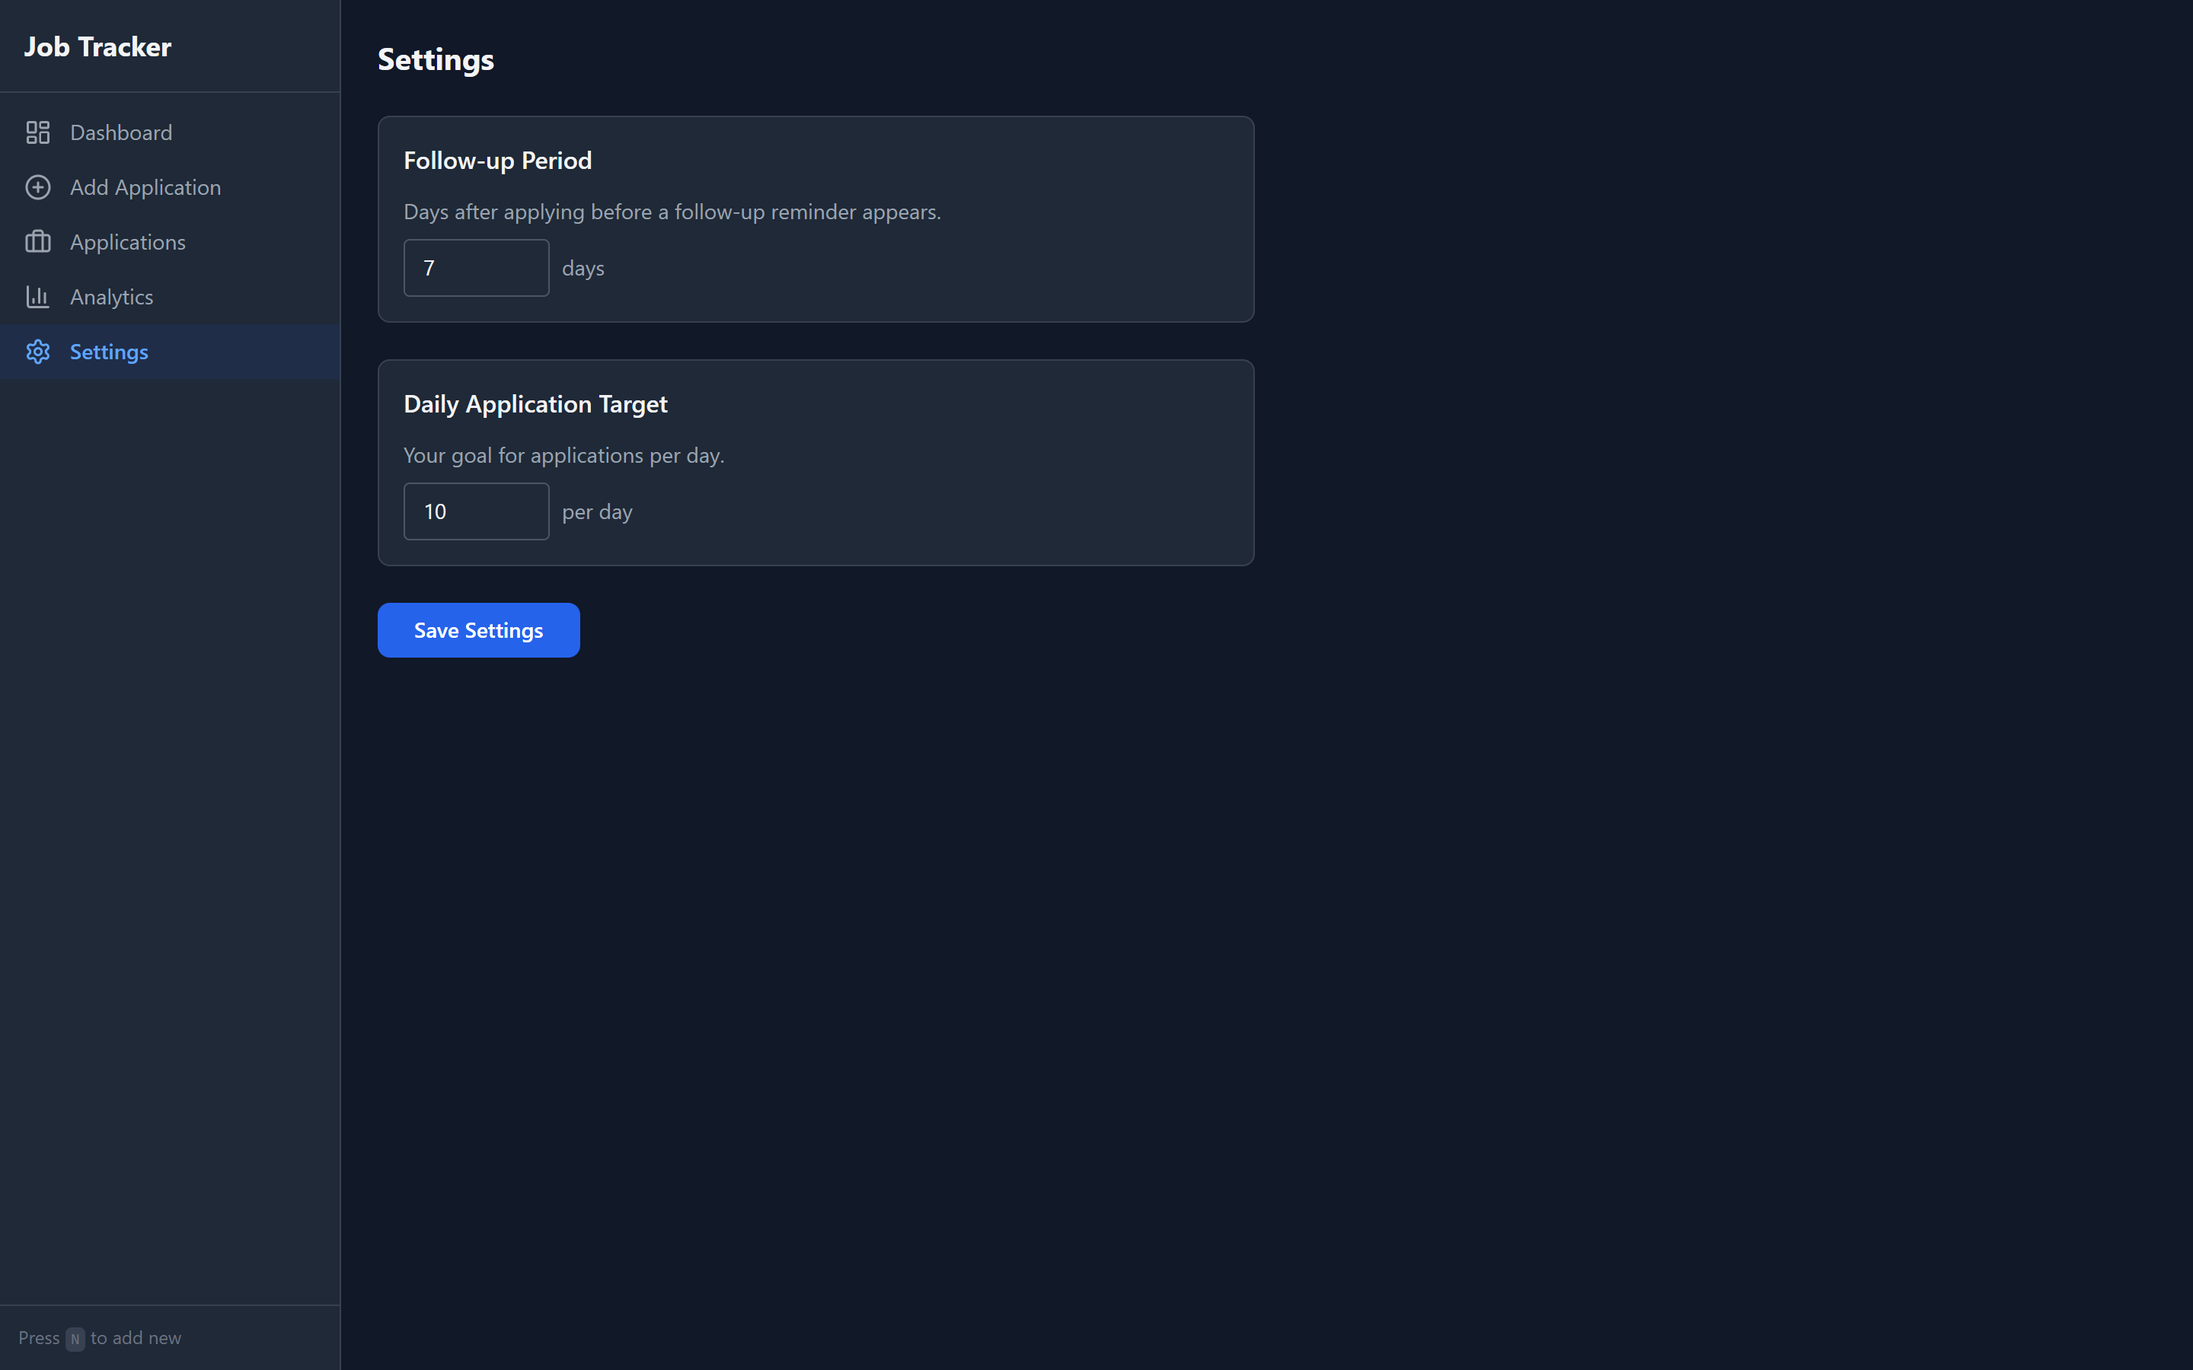
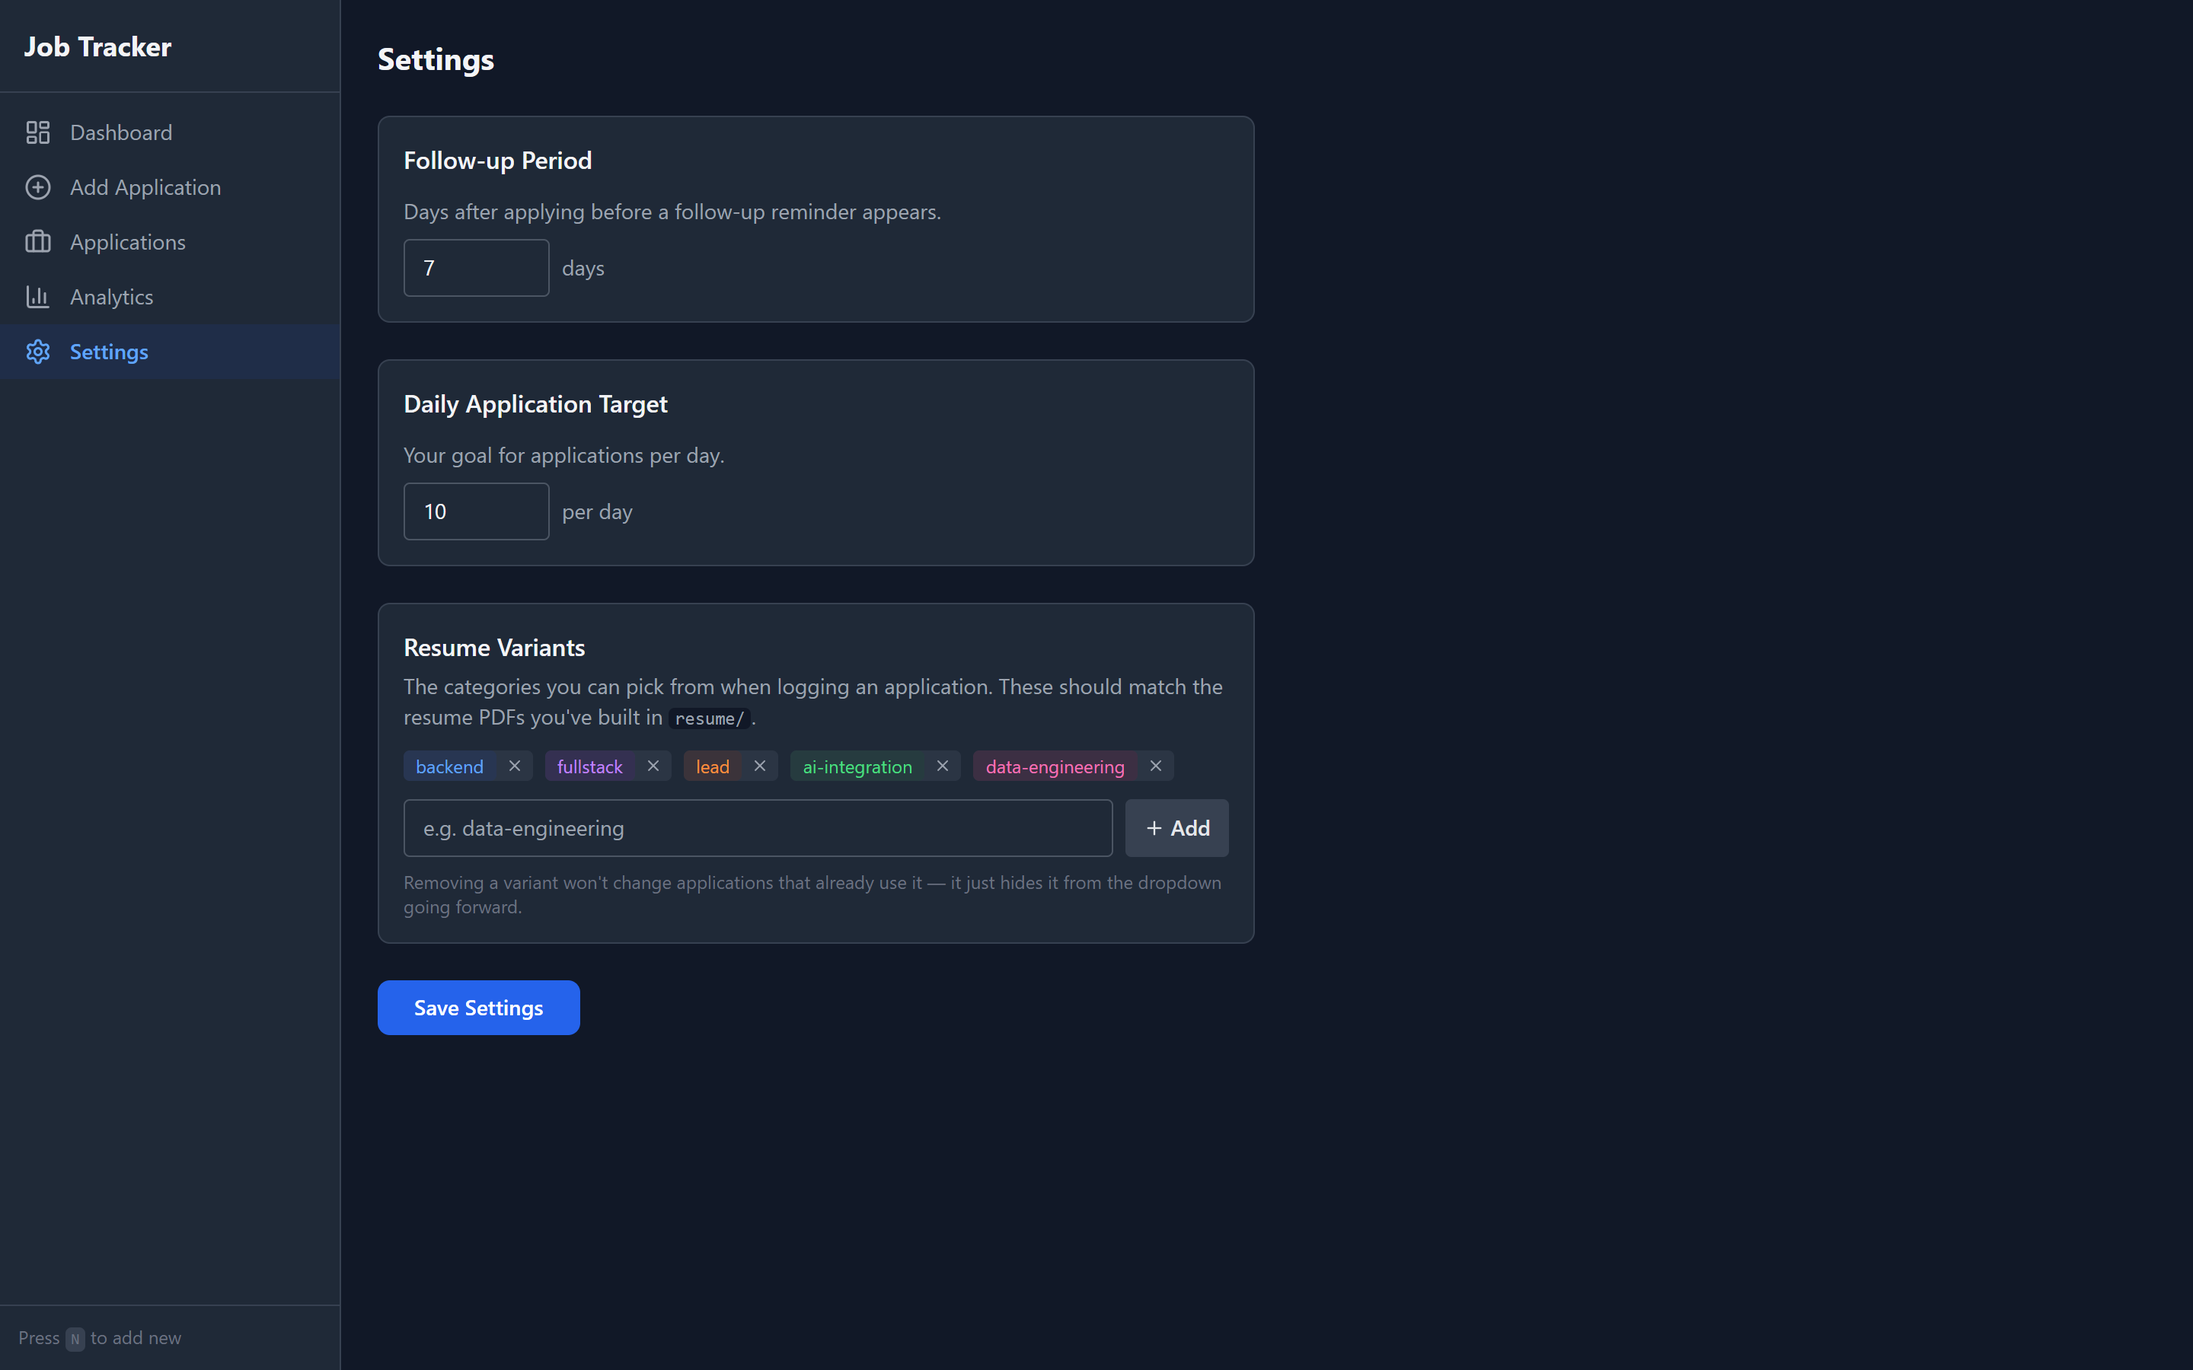
feat(resumes): make resume variants user-configurable in Settings
The set of resumes was hard-coded as a five-value enum
(backend / fullstack / lead / ai-integration / custom) baked into the
shared zod schema, the dropdown options on AddApplication and
ApplicationDetail, and the ResumeBadge color map. Adding or renaming a
category meant editing source. That's the wrong place: the resume set
is per-user config, not application schema.

The list now lives in the existing settings KV table under key
resume_variants as a JSON-encoded string[], with the four shipped
variants used as the default seed when the user hasn't customized
anything yet. The Settings page gets a new section to add/remove
variants, the Add and Detail dropdowns derive their options from
settings, and ResumeBadge falls back to a deterministic hash-based
palette color for any name not in the reserved color map.

Schema-side, resumeUsed is relaxed from z.enum(...) to z.string().min(1)
on both create and update so the API accepts any user-defined value.
The DB column was already plain text — no migration needed. Removing a
variant from settings doesn't touch existing applications that use it;
in edit mode the dropdown still shows the old value labeled (removed)
so users don't lose data by accident.

Changed region(s): [[0.1562, 0.4356, 0.5625, 0.6844], [0.1562, 0.7156, 0.2812, 0.7778]]

diff --git a/app/packages/client/src/pages/Settings.tsx b/app/packages/client/src/pages/Settings.tsx
@@ -2,6 +2,9 @@ import { useState, useEffect } from "react";
 import { useQuery, useMutation, useQueryClient } from "@tanstack/react-query";
 import { apiFetch, apiPatch } from "../api/client.ts";
 import { toast } from "sonner";
+import { Plus, X } from "lucide-react";
+import { parseResumeVariants, serializeResumeVariants } from "../lib/resume-variants.ts";
+import { ResumeBadge } from "../components/ui/ResumeBadge.tsx";
 
 export function SettingsPage() {
   const queryClient = useQueryClient();
@@ -13,10 +16,13 @@ export function SettingsPage() {
 
   const [followUpDays, setFollowUpDays] = useState("7");
   const [dailyTarget, setDailyTarget] = useState("10");
+  const [resumeVariants, setResumeVariants] = useState<string[]>([]);
+  const [newVariant, setNewVariant] = useState("");
 
   useEffect(() => {
     if (settings.follow_up_days) setFollowUpDays(settings.follow_up_days);
     if (settings.daily_application_target) setDailyTarget(settings.daily_application_target);
+    setResumeVariants(parseResumeVariants(settings));
   }, [settings]);
 
   const saveMutation = useMutation({
@@ -34,7 +40,23 @@ export function SettingsPage() {
     saveMutation.mutate({
       follow_up_days: followUpDays,
       daily_application_target: dailyTarget,
+      resume_variants: serializeResumeVariants(resumeVariants),
     });
+  };
+
+  const addVariant = () => {
+    const v = newVariant.trim().toLowerCase().replace(/\s+/g, "-");
+    if (!v) return;
+    if (resumeVariants.includes(v)) {
+      toast.error(`"${v}" already exists`);
+      return;
+    }
+    setResumeVariants([...resumeVariants, v]);
+    setNewVariant("");
+  };
+
+  const removeVariant = (v: string) => {
+    setResumeVariants(resumeVariants.filter((x) => x !== v));
   };
 
   return (
@@ -64,6 +86,61 @@ export function SettingsPage() {
             className="w-24 border border-gray-300 dark:border-gray-600 rounded px-3 py-2 text-sm bg-white dark:bg-gray-800 dark:text-gray-100"
           />
           <span className="text-sm text-gray-500 dark:text-gray-400 ml-2">per day</span>
+        </div>
+
+        <div className="bg-white dark:bg-gray-800 rounded-lg border border-gray-200 dark:border-gray-700 p-4">
+          <h3 className="font-medium mb-1">Resume Variants</h3>
+          <p className="text-sm text-gray-500 dark:text-gray-400 mb-3">
+            The categories you can pick from when logging an application. These
+            should match the resume PDFs you've built in <code className="text-xs bg-gray-100 dark:bg-gray-900 px-1 rounded">resume/</code>.
+          </p>
+
+          {resumeVariants.length === 0 ? (
+            <p className="text-sm text-gray-400 dark:text-gray-500 italic mb-3">No resume variants yet. Add one below.</p>
+          ) : (
+            <div className="flex flex-wrap gap-2 mb-3">
+              {resumeVariants.map((v) => (
+                <div
+                  key={v}
+                  className="inline-flex items-center gap-1 bg-gray-100 dark:bg-gray-700/50 rounded pr-1"
+                >
+                  <ResumeBadge resume={v} />
+                  <button
+                    onClick={() => removeVariant(v)}
+                    className="text-gray-400 hover:text-red-500 dark:hover:text-red-400 p-0.5"
+                    aria-label={`Remove ${v}`}
+                  >
+                    <X size={12} />
+                  </button>
+                </div>
+              ))}
+            </div>
+          )}
+
+          <div className="flex gap-2">
+            <input
+              type="text"
+              value={newVariant}
+              onChange={(e) => setNewVariant(e.target.value)}
+              onKeyDown={(e) => {
+                if (e.key === "Enter") {
+                  e.preventDefault();
+                  addVariant();
+                }
+              }}
+              placeholder="e.g. data-engineering"
+              className="flex-1 border border-gray-300 dark:border-gray-600 rounded px-3 py-2 text-sm bg-white dark:bg-gray-800 dark:text-gray-100"
+            />
+            <button
+              onClick={addVariant}
+              className="px-3 py-2 bg-gray-100 dark:bg-gray-700 text-gray-700 dark:text-gray-200 rounded text-sm font-medium hover:bg-gray-200 dark:hover:bg-gray-600 inline-flex items-center gap-1"
+            >
+              <Plus size={14} /> Add
+            </button>
+          </div>
+          <p className="text-xs text-gray-400 dark:text-gray-500 mt-2">
+            Removing a variant won't change applications that already use it — it just hides it from the dropdown going forward.
+          </p>
         </div>
 
         <button

diff --git a/app/packages/client/src/pages/ApplicationDetail.tsx b/app/packages/client/src/pages/ApplicationDetail.tsx
@@ -10,18 +10,15 @@ import { StatusBadge } from "../components/ui/StatusBadge.tsx";
 import { ResumeBadge } from "../components/ui/ResumeBadge.tsx";
 import { CompanyLogo } from "../components/ui/CompanyLogo.tsx";
 import { SkeletonCard } from "../components/ui/Skeleton.tsx";
-import { JOB_STATUSES, RESUME_VARIANTS, FOUND_VIA_SOURCES, SOURCE_LABELS, SALARY_CURRENCIES } from "@jobsearch/shared";
+import { JOB_STATUSES, FOUND_VIA_SOURCES, SOURCE_LABELS, SALARY_CURRENCIES } from "@jobsearch/shared";
+import { apiFetch } from "../api/client.ts";
+import { parseResumeVariants, formatResumeLabel } from "../lib/resume-variants.ts";
 
 const TRANSITIONS: Record<string, string[]> = Object.fromEntries(
   JOB_STATUSES.map((s) => [s, JOB_STATUSES.filter((t) => t !== s)]),
 );
 
 const TABS = ["Overview", "Notes", "Salary / Offer"];
-
-const RESUME_OPTIONS = [
-  { value: "", label: "None" },
-  ...RESUME_VARIANTS.map((v) => ({ value: v, label: v.charAt(0).toUpperCase() + v.slice(1).replace("-", " ") })),
-];
 
 const SOURCE_OPTIONS = [
   { value: "", label: "None" },
@@ -33,6 +30,16 @@ export function ApplicationDetail() {
   const navigate = useNavigate();
   const queryClient = useQueryClient();
   const [activeTab, setActiveTab] = useState("Overview");
+
+  const { data: settings } = useQuery({
+    queryKey: ["settings"],
+    queryFn: () => apiFetch<Record<string, string>>("/settings"),
+  });
+  const resumeVariants = parseResumeVariants(settings);
+  const RESUME_OPTIONS = [
+    { value: "", label: "None" },
+    ...resumeVariants.map((v) => ({ value: v, label: formatResumeLabel(v) })),
+  ];
   const [saveState, setSaveState] = useState<"idle" | "saving" | "saved">("idle");
   const [editing, setEditing] = useState(false);
   const [editForm, setEditForm] = useState({ title: "", employer: "", jobUrl: "", location: "", resumeUsed: "", foundVia: "" });
@@ -168,6 +175,12 @@ export function ApplicationDetail() {
                 {RESUME_OPTIONS.map((o) => (
                   <option key={o.value} value={o.value}>{o.label}</option>
                 ))}
+                {/* Preserve a value that was removed from settings so editing doesn't silently drop it */}
+                {editForm.resumeUsed && !resumeVariants.includes(editForm.resumeUsed) && (
+                  <option value={editForm.resumeUsed}>
+                    {formatResumeLabel(editForm.resumeUsed)} (removed)
+                  </option>
+                )}
               </select>
             </div>
             <div>

diff --git a/app/packages/client/src/components/ui/ResumeBadge.tsx b/app/packages/client/src/components/ui/ResumeBadge.tsx
@@ -1,17 +1,37 @@
 import { cn } from "../../lib/utils.ts";
 
-const RESUME_COLORS: Record<string, string> = {
+// Reserved colors for the default-shipped variants. Custom variants get a
+// deterministic color picked from the PALETTE below based on a hash of the
+// name, so the same name always renders the same color across the app.
+const RESERVED_COLORS: Record<string, string> = {
   backend: "bg-blue-50 text-blue-600 dark:bg-blue-900/20 dark:text-blue-400",
   fullstack: "bg-purple-50 text-purple-600 dark:bg-purple-900/20 dark:text-purple-400",
   lead: "bg-orange-50 text-orange-600 dark:bg-orange-900/20 dark:text-orange-400",
   "ai-integration": "bg-green-50 text-green-600 dark:bg-green-900/20 dark:text-green-400",
-  custom: "bg-gray-50 text-gray-600 dark:bg-gray-700/20 dark:text-gray-400",
 };
+
+const PALETTE = [
+  "bg-pink-50 text-pink-600 dark:bg-pink-900/20 dark:text-pink-400",
+  "bg-cyan-50 text-cyan-600 dark:bg-cyan-900/20 dark:text-cyan-400",
+  "bg-amber-50 text-amber-600 dark:bg-amber-900/20 dark:text-amber-400",
+  "bg-teal-50 text-teal-600 dark:bg-teal-900/20 dark:text-teal-400",
+  "bg-indigo-50 text-indigo-600 dark:bg-indigo-900/20 dark:text-indigo-400",
+  "bg-rose-50 text-rose-600 dark:bg-rose-900/20 dark:text-rose-400",
+  "bg-lime-50 text-lime-600 dark:bg-lime-900/20 dark:text-lime-400",
+  "bg-violet-50 text-violet-600 dark:bg-violet-900/20 dark:text-violet-400",
+];
+
+function colorFor(name: string): string {
+  if (RESERVED_COLORS[name]) return RESERVED_COLORS[name];
+  let h = 0;
+  for (let i = 0; i < name.length; i++) h = (h * 31 + name.charCodeAt(i)) | 0;
+  return PALETTE[Math.abs(h) % PALETTE.length];
+}
 
 export function ResumeBadge({ resume }: { resume?: string | null }) {
   if (!resume) return null;
   return (
-    <span className={cn("px-2 py-0.5 rounded text-xs", RESUME_COLORS[resume] || "bg-gray-50")}>
+    <span className={cn("px-2 py-0.5 rounded text-xs", colorFor(resume))}>
       {resume}
     </span>
   );

diff --git a/app/packages/client/src/pages/AddApplication.tsx b/app/packages/client/src/pages/AddApplication.tsx
@@ -1,16 +1,13 @@
 import { useState } from "react";
-import { useMutation } from "@tanstack/react-query";
+import { useMutation, useQuery } from "@tanstack/react-query";
 import { useNavigate } from "react-router-dom";
 import { jobsApi } from "../api/jobs.api.ts";
+import { apiFetch } from "../api/client.ts";
 import { Loader2 } from "lucide-react";
 import { toast } from "sonner";
 import { CompanyLogo } from "../components/ui/CompanyLogo.tsx";
-import { RESUME_VARIANTS, FOUND_VIA_SOURCES, SOURCE_LABELS, SALARY_CURRENCIES } from "@jobsearch/shared";
-
-const RESUME_OPTIONS = [
-  { value: "", label: "Select resume..." },
-  ...RESUME_VARIANTS.map((v) => ({ value: v, label: v.charAt(0).toUpperCase() + v.slice(1).replace("-", " ") })),
-];
+import { FOUND_VIA_SOURCES, SOURCE_LABELS, SALARY_CURRENCIES } from "@jobsearch/shared";
+import { parseResumeVariants, formatResumeLabel } from "../lib/resume-variants.ts";
 
 const SOURCE_OPTIONS = [
   { value: "", label: "Where did you find this?" },
@@ -20,6 +17,16 @@ const SOURCE_OPTIONS = [
 export function AddApplication() {
   const navigate = useNavigate();
   const [url, setUrl] = useState("");
+
+  const { data: settings } = useQuery({
+    queryKey: ["settings"],
+    queryFn: () => apiFetch<Record<string, string>>("/settings"),
+  });
+  const resumeVariants = parseResumeVariants(settings);
+  const RESUME_OPTIONS = [
+    { value: "", label: "Select resume..." },
+    ...resumeVariants.map((v) => ({ value: v, label: formatResumeLabel(v) })),
+  ];
   const [form, setForm] = useState({
     title: "",
     employer: "",

diff --git a/app/packages/shared/src/schemas/job.schema.ts b/app/packages/shared/src/schemas/job.schema.ts
@@ -1,5 +1,5 @@
 import { z } from "zod";
-import { JOB_STATUSES, RESUME_VARIANTS, FOUND_VIA_SOURCES, SALARY_CURRENCIES } from "../types/job.js";
+import { JOB_STATUSES, FOUND_VIA_SOURCES, SALARY_CURRENCIES } from "../types/job.js";
 
 export const createJobInputSchema = z.object({
   title: z.string().min(1),
@@ -9,7 +9,7 @@ export const createJobInputSchema = z.object({
   salary: z.string().optional(),
   jobDescription: z.string().optional(),
   remote: z.boolean().optional(),
-  resumeUsed: z.enum(RESUME_VARIANTS).optional(),
+  resumeUsed: z.string().min(1).optional(),
   foundVia: z.enum(FOUND_VIA_SOURCES).optional(),
   salaryMin: z.number().optional(),
   salaryMax: z.number().optional(),
@@ -28,7 +28,7 @@ export const jobFiltersSchema = z.object({
   ),
   resumeUsed: z.preprocess(
     (v) => (typeof v === "string" ? v.split(",") : v),
-    z.array(z.enum(RESUME_VARIANTS)).optional(),
+    z.array(z.string().min(1)).optional(),
   ),
   search: z.string().optional(),
   offset: z.coerce.number().min(0).default(0),
@@ -48,7 +48,7 @@ export const updateJobSchema = z.object({
   salary: z.string().nullable().optional(),
   jobDescription: z.string().nullable().optional(),
   remote: z.boolean().optional(),
-  resumeUsed: z.enum(RESUME_VARIANTS).nullable().optional(),
+  resumeUsed: z.string().min(1).nullable().optional(),
   foundVia: z.enum(FOUND_VIA_SOURCES).nullable().optional(),
   salaryMin: z.number().nullable().optional(),
   salaryMax: z.number().nullable().optional(),

diff --git a/app/packages/client/src/lib/resume-variants.ts b/app/packages/client/src/lib/resume-variants.ts
@@ -1,0 +1,33 @@
+import { DEFAULT_RESUME_VARIANTS } from "@jobsearch/shared";
+
+// The list of resume variants is stored in the settings KV table under
+// key "resume_variants" as a JSON-encoded string[]. This helper hides
+// the (de)serialization and falls back to the shipped defaults when the
+// user hasn't customized anything yet.
+
+export function parseResumeVariants(settings: Record<string, string> | undefined): string[] {
+  const raw = settings?.resume_variants;
+  if (raw) {
+    try {
+      const parsed = JSON.parse(raw);
+      if (Array.isArray(parsed) && parsed.every((v) => typeof v === "string")) {
+        return parsed;
+      }
+    } catch {
+      // fall through to defaults
+    }
+  }
+  return [...DEFAULT_RESUME_VARIANTS];
+}
+
+export function serializeResumeVariants(variants: string[]): string {
+  return JSON.stringify(variants);
+}
+
+export function formatResumeLabel(variant: string): string {
+  return variant
+    .split(/[-_\s]/)
+    .map((w) => (w ? w.charAt(0).toUpperCase() + w.slice(1) : ""))
+    .join(" ")
+    .trim();
+}

diff --git a/app/packages/shared/src/types/job.ts b/app/packages/shared/src/types/job.ts
@@ -11,14 +11,18 @@ export const JOB_STATUSES = [
 ] as const;
 export type JobStatus = (typeof JOB_STATUSES)[number];
 
-export const RESUME_VARIANTS = [
+// Default resume variants used when the user hasn't customized the list.
+// The actual list of available variants is stored in the settings table
+// (key: resume_variants, value: JSON-encoded string[]) and is fully editable
+// from the Settings page.
+export const DEFAULT_RESUME_VARIANTS = [
   "backend",
   "fullstack",
   "lead",
   "ai-integration",
-  "custom",
 ] as const;
-export type ResumeVariant = (typeof RESUME_VARIANTS)[number];
+// Resume variant is now an arbitrary user-defined string, no longer an enum.
+export type ResumeVariant = string;
 
 export const FOUND_VIA_SOURCES = [
   "linkedin",
